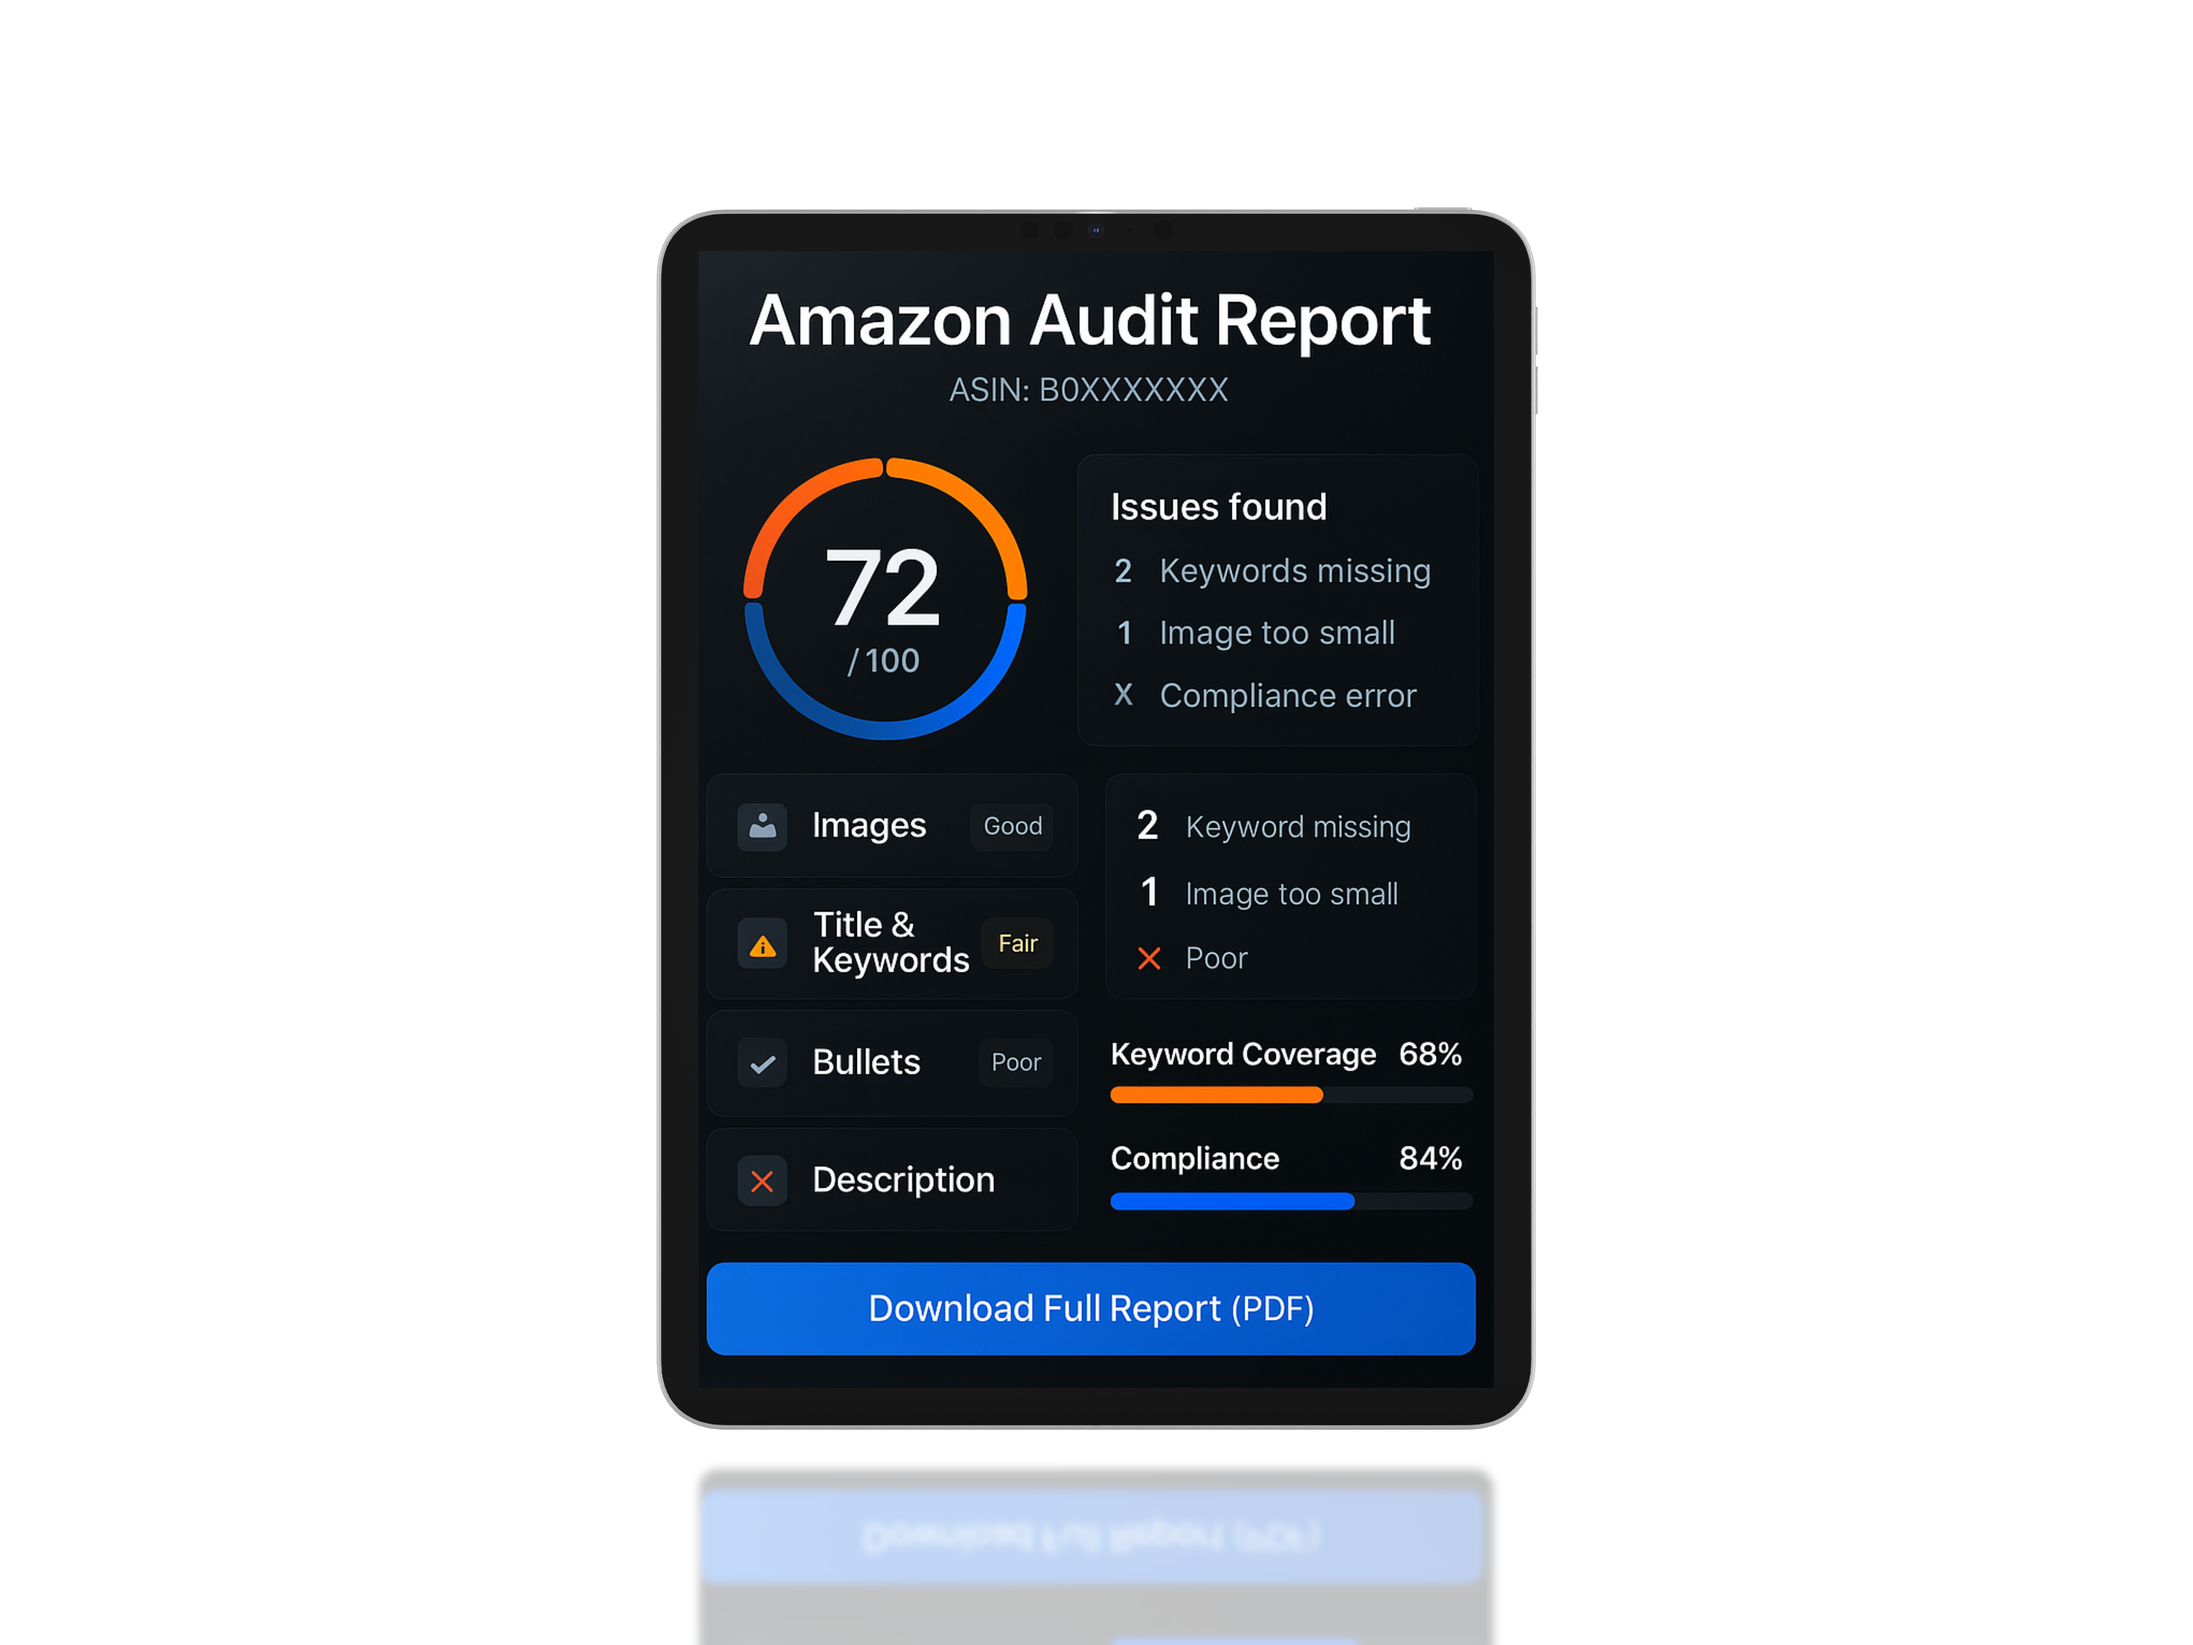
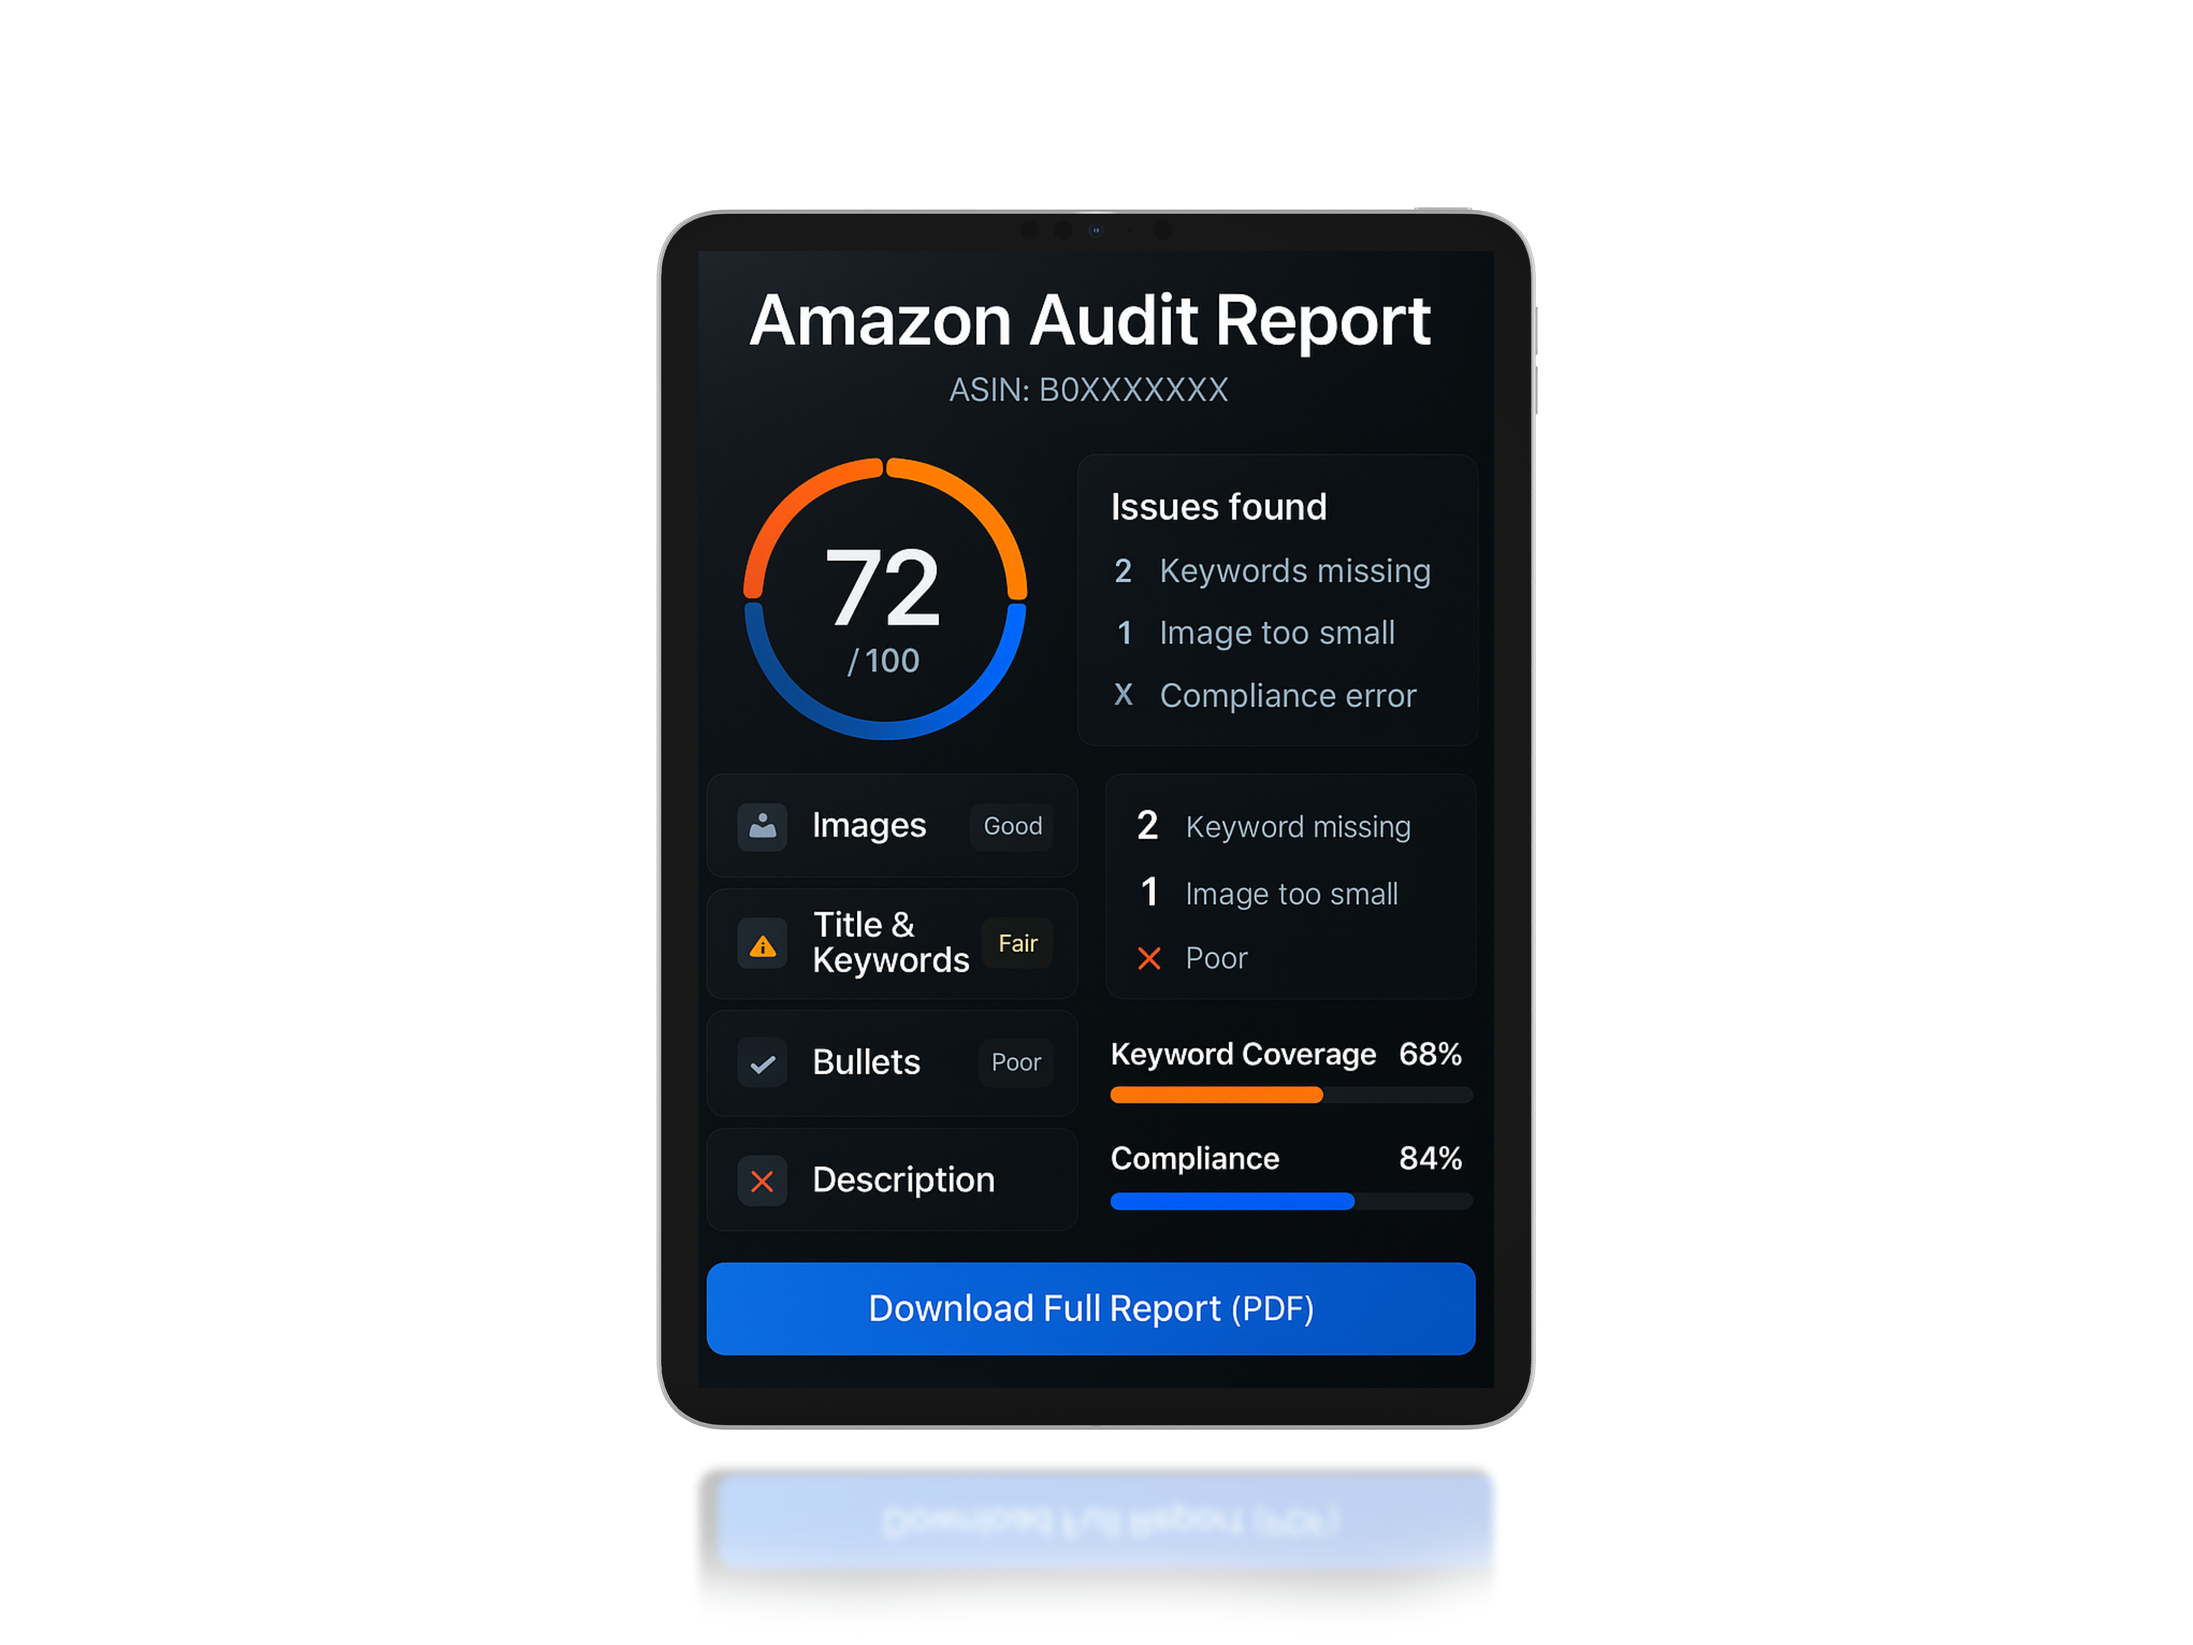
Scale up iPad mockup and improve positioning
- Increased iPad width from 800px to 1012px (+26.5% total increase)
- Moved iPad further right with negative margins (-mr-12 lg:-mr-24)
- Improved visual balance with headline stack height
- Enhanced edge-to-edge effect for more dynamic layout
- Applied changes to both Hero and NewSellerHero components

Changed region(s): [[0.3125, 0.899, 0.6875, 1.0]]

diff --git a/components/NewSellerHero.tsx b/components/NewSellerHero.tsx
@@ -276,11 +276,11 @@ export default function NewSellerHero({ onUrlSubmit, onManualSubmit }: NewSeller
             </div>
 
             {/* Right: iPad Mockup - Hidden on mobile */}
-            <div className="justify-self-center lg:justify-self-end hidden md:block">
+            <div className="justify-self-end hidden md:block -mr-12 lg:-mr-24">
               <img
                 src="/ipad-mockup.png"
                 alt="iPad showing Amazon listing creation"
-                className="block h-auto w-[800px] max-w-[95vw]"
+                className="block h-auto w-[1012px] max-w-[95vw]"
                 draggable={false}
               />
             </div>

diff --git a/components/Hero.tsx b/components/Hero.tsx
@@ -116,11 +116,11 @@ export default function Hero({ onAsinSubmit }: HeroProps) {
           </div>
 
           {/* Right: Mockup Image - Hidden on mobile */}
-          <div className="justify-self-center lg:justify-self-end hidden md:block">
+          <div className="justify-self-end hidden md:block -mr-12 lg:-mr-24">
             <img
               src="/ipad-mockup.png"
               alt="Amazon Audit Report preview"
-              className="block h-auto w-[800px] max-w-[95vw]"
+              className="block h-auto w-[1012px] max-w-[95vw]"
               draggable={false}
             />
           </div>
